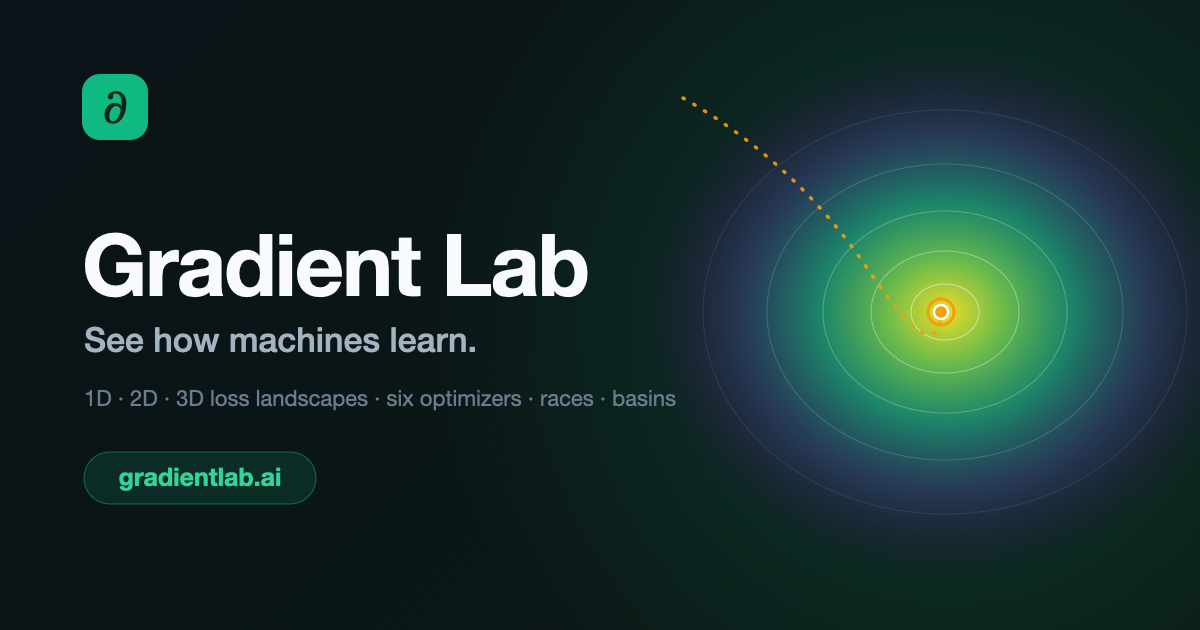
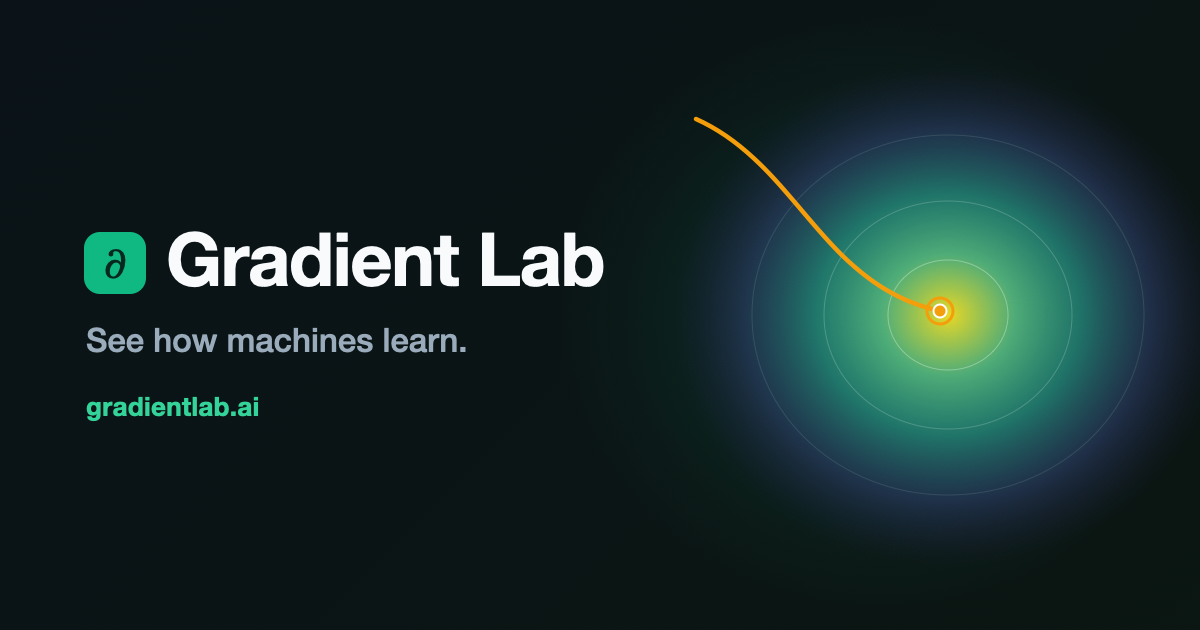
seo: revamp the Open Graph card
The first card was messy — orphaned logo, a thin cramped feature line,
off margins. Redesign: tight ∂ badge + wordmark lockup on one baseline,
clear hierarchy (wordmark → tagline → URL), no micro-text, balanced
margins, and a cleaner solid descent curve into the minimum. Bump the
og:image/twitter:image URL to ?v=2 so cached social previews refresh.

diff --git a/index.html b/index.html
@@ -31,7 +31,7 @@
       content="An interactive playground for gradient-based optimization: loss landscapes in 1D/2D/3D, six optimizers, races, basins of attraction, and a built-in course."
     />
     <meta property="og:url" content="https://gradientlab.ai/" />
-    <meta property="og:image" content="https://gradientlab.ai/og-image.png" />
+    <meta property="og:image" content="https://gradientlab.ai/og-image.png?v=2" />
     <meta property="og:image:width" content="1200" />
     <meta property="og:image:height" content="630" />
     <meta property="og:image:alt" content="Gradient Lab — a loss landscape with a descent path converging to the minimum" />
@@ -44,7 +44,7 @@
       name="twitter:description"
       content="An interactive playground for gradient-based optimization: loss landscapes in 1D/2D/3D, six optimizers, races, basins of attraction, and a built-in course."
     />
-    <meta name="twitter:image" content="https://gradientlab.ai/og-image.png" />
+    <meta name="twitter:image" content="https://gradientlab.ai/og-image.png?v=2" />
     <meta name="twitter:image:alt" content="Gradient Lab — a loss landscape with a descent path converging to the minimum" />
 
     <!-- Structured data: this is a free educational web app -->
@@ -58,7 +58,7 @@
         "applicationCategory": "EducationalApplication",
         "operatingSystem": "Any (web browser)",
         "browserRequirements": "Requires JavaScript.",
-        "image": "https://gradientlab.ai/og-image.png",
+        "image": "https://gradientlab.ai/og-image.png?v=2",
         "inLanguage": "en",
         "isAccessibleForFree": true,
         "offers": { "@type": "Offer", "price": "0", "priceCurrency": "USD" },
